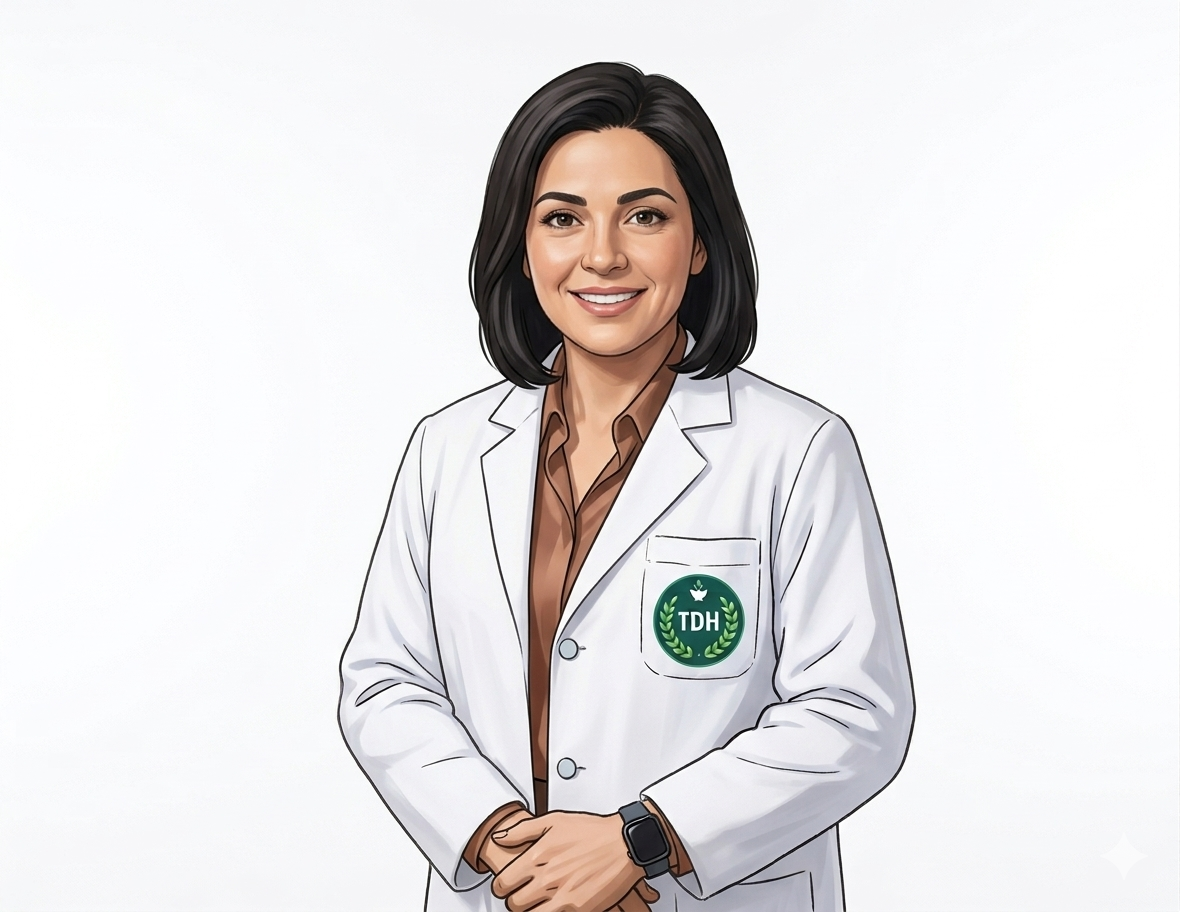
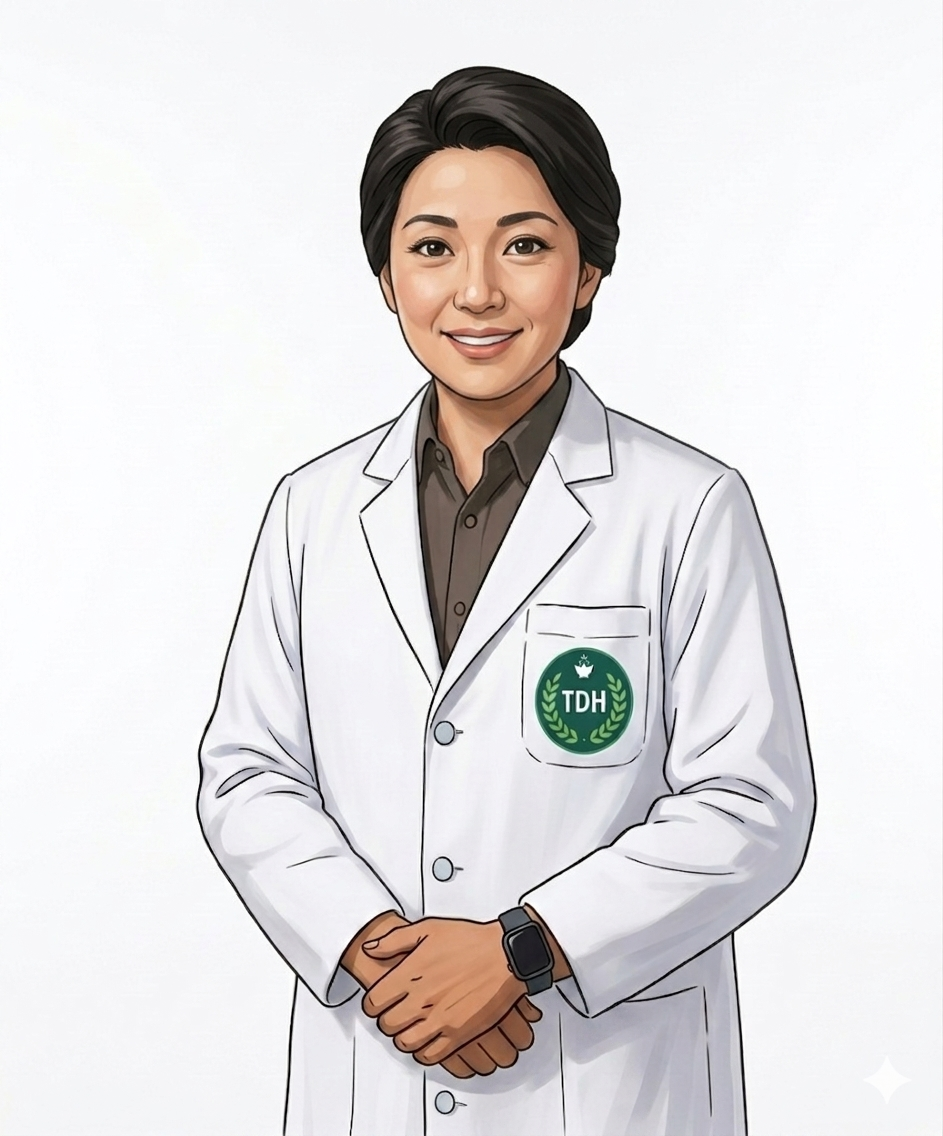
Contacts Done

Changed region(s): [[0.1845, 0.0307, 0.8918, 1.0], [0.2768, 0.9518, 0.3075, 1.0], [0.3075, 0.3991, 0.3383, 0.4298]]

diff --git a/medical-contact.html b/medical-contact.html
@@ -38,13 +38,15 @@
 		<link rel="stylesheet" href="css/theme-shop.css">
 
 		<!-- Demo CSS -->
-		<link rel="stylesheet" href="css/demos/medical.css">
+		<link rel="stylesheet" href="css/demos/demo-medical.css">
 
 		<!-- Skin CSS -->
 		<link id="skinCSS" rel="stylesheet" href="css/skins/skin-medical.css">
 
 		<!-- Theme Custom CSS -->
 		<link rel="stylesheet" href="css/custom.css">
+		<link rel="stylesheet" href="css/custom-contact.css">
+
 
 	</head>
 	<body>
@@ -172,51 +174,61 @@
 
 				<div class="container">
 
-					<div class="row mt-5">
-						<div class="col-lg-4">
-							<div class="feature-box feature-box-style-2">
-								<div class="feature-box-icon pt-0">
-									<i class="icon-location-pin icons"></i>
+					<div class="row mt-5 mb-5">
+						<div class="col-lg-4 mb-4">
+							<div class="contact-feature-card h-100 shadow-sm">
+								<div class="icon-wrapper">
+									<i class="icon-location-pin icons text-color-primary" style="font-size: 1.7rem;"></i>
 								</div>
-								<div class="feature-box-info">
-									<h4 class="mb-2">Address</h4>
-									<p class="text-4">
-										A. Soriano Highway, <br>
-										Brgy. Sahud Ulan Tanza Cavite
-									</p>
+								<h4 class="font-weight-bold text-color-dark mt-2 mb-3">Our Location</h4>
+								<p class="text-4 mb-0" style="line-height: 1.6;">
+									A. Soriano Highway, <br>
+									<strong class="text-color-dark">Brgy. Sahud Ulan</strong><br>
+									Tanza, Cavite
+								</p>
+							</div>
+						</div>
+
+						<div class="col-lg-4 mb-4">
+							<div class="contact-feature-card h-100 shadow-sm">
+								<div class="icon-wrapper">
+									<i class="icon-phone icons text-color-primary" style="font-size: 1.7rem;"></i>
+								</div>
+								<h4 class="font-weight-bold text-color-dark mt-2 mb-3">Phone Numbers</h4>
+								<div class="mb-2">
+									<span class="contact-label">Trunkline</span>
+									<a href="tel:0468889580" class="contact-value">(046) 888 9580</a>
+								</div>
+								<div class="row">
+									<div class="col-6">
+										<span class="contact-label">OPD</span>
+										<a href="tel:09177016393" class="contact-value text-3">0917 701 6393</a>
+									</div>
+									<div class="col-6">
+										<span class="contact-label">HMO</span>
+										<a href="tel:09177054799" class="contact-value text-3">0917 705 4799</a>
+									</div>
+								</div>
+								<div class="row">
+									<div class="col-6">
+										<span class="contact-label">CARDIO</span>
+										<a href="tel:09177016393" class="contact-value text-3">0917 636 6077</a>
+									</div>
 								</div>
 							</div>
 						</div>
-						<div class="col-lg-4">
-							<div class="feature-box feature-box-style-2">
-								<div class="feature-box-icon pt-0">
-									<i class="icon-phone icons"></i>
+
+						<div class="col-lg-4 mb-4">
+							<div class="contact-feature-card h-100 shadow-sm">
+								<div class="icon-wrapper">
+									<i class="icon-envelope icons text-color-primary" style="font-size: 1.7rem;"></i>
 								</div>
-								<div class="feature-box-info">
-									<h4 class="mb-2">Phone</h4>
-									<p class="text-4">
-										<strong>TRUNKLINE:</strong> (046) 888 9580 ... 86<br>
-										<strong>OUT-PATIENT DEPT.:</strong> 0917 701 6393<br>
-										<strong>IM SEC:</strong> 0927 964 4871<br>
-										<strong>HMO DEPT.:</strong> 0917 705 4799<br>
-										<strong>OUT-PATIENT DEPT.:</strong> 0917 636 6077
-									</p>
-								</div>
-							</div>
-						</div>
-						<div class="col-lg-4">
-							<div class="feature-box feature-box-style-2">
-								<div class="feature-box-icon pt-0">
-									<i class="icon-envelope icons"></i>
-								</div>
-								<div class="feature-box-info">
-									<h4 class="mb-2">Email</h4>
-									<p class="text-4">
-										<a href="mailto:tdh.tanzadoctorshospital@yahoo.com" class="text-decoration-none">tanzadoctorshospital@yahoo.com</a><br>
-										<a href="mailto:outpatientdepartment561@gmail.com" class="text-decoration-none">outpatientdepartment561@gmail.com</a>
-										<a href="mailto:tdh.mis@tanzadoctors.com" class="text-decoration-none">tdh.mis@tanzadoctors.com</a><br>]
-									</p>
-								</div>
+								<h4 class="font-weight-bold text-color-dark mt-2 mb-3">Email Support</h4>
+								<span class="contact-label">General Inquiry</span>
+								<a href="mailto:tdh.tanzadoctorshospital@yahoo.com" class="contact-value text-3">tanzadoctorshospital@yahoo.com</a>
+								
+								<span class="contact-label">MIS Department</span>
+								<a href="mailto:tdh.mis@tanzadoctors.com" class="contact-value text-3">tdh.mis@tanzadoctors.com</a>
 							</div>
 						</div>
 					</div>
@@ -241,7 +253,7 @@
 
 							<h4 class="font-weight-semibold mb-4">Send a Message to Us</h4>
 
-							<form class="contact-form-wrapper" action="php/contact-form.php" method="POST">
+							<form id="contactForm" class="contact-form" action="php/contact-form.php" method="POST">
 								<div class="contact-form-success alert alert-success d-none mt-4">
 									<strong>Success!</strong> Your message has been sent to us.
 								</div>
@@ -358,6 +370,8 @@
 
 		<!-- Theme Base, Components and Settings -->
 		<script src="js/theme.js"></script>
+
+		<script src="vendor/jquery.validation/jquery.validate.min.js"></script>
 
 		<!-- Current Page Vendor and Views -->
 		<script src="js/views/view.contact.js"></script>

diff --git a/medical.html b/medical.html
@@ -177,7 +177,7 @@
 								<div class="container position-relative z-index-3 h-100" style="background-color: transparent !important; outline: none !important; border: none !important; box-shadow: none !important;">
 									<div class="row align-items-center h-100">
 										<div class="col pb-4">
-											<h1 class="text-color-light font-weight-extra-bold text-13 line-height-2 mb-2 appear-animation" data-appear-animation="fadeInUpShorter" data-appear-animation-delay="500" data-plugin-options="{'minWindowWidth': 0}">SPECIALISTS</h1>
+											<h1 class="text-color-light font-weight-extra-bold text-13 line-height-2 mb-2 appear-animation" data-appear-animation="fadeInUpShorter" data-appear-animation-delay="500" data-plugin-options="{'minWindowWidth': 0}">TRUSTED PROVIDERS</h1>
 											<h2 class="text-color-light font-weight-extra-bold text-4-5 line-height-2 mb-3 appear-animation" data-appear-animation="fadeInUpShorter" data-appear-animation-delay="750" data-plugin-options="{'minWindowWidth': 0}">3 YEARS CARING ABOUT YOU</h2>
 											<div class="d-inline-block">
 												<p class="text-color-light custom-border-bottom-1 font-weight-light text-4-5 mb-0 appear-animation" data-appear-animation="fadeInUpShorter" data-appear-animation-delay="1000" data-plugin-options="{'minWindowWidth': 0}">We are located in Cavite</p>
@@ -414,7 +414,7 @@
 									<a href="#" data-href="medical-doctors-details - jtiu.html" data-ajax-on-page class="text-decoration-none">
 										<span class="thumb-info thumb-info-no-zoom thumb-info-hide-wrapper-bg">
 											<span class="thumb-info-wrapper m-0">
-												<img src="img/demos/medical/doctors/Trial_Doc_Male.png" class="img-fluid" alt="">
+												<img src="img/demos/medical/doctors/Trial_Doc_Male_Scrubs.png" class="img-fluid" alt="">
 											</span>
 										<span class="thumb-info-caption p-4">
 											<span class="custom-thumb-info-title d-flex align-items-center justify-content-between" style="width: 100%;">
@@ -456,7 +456,7 @@
 									<a href="#" data-href="medical-doctors-details - ilumubos.html" data-ajax-on-page class="text-decoration-none">
 										<span class="thumb-info thumb-info-no-zoom thumb-info-hide-wrapper-bg">
 											<span class="thumb-info-wrapper m-0">
-												<img src="img/demos/medical/doctors/Trial_Doc_Male.png" class="img-fluid" alt="">
+												<img src="img/demos/medical/doctors/Trial_Doc_Female_Scrubs.png" class="img-fluid" alt="">
 											</span>
 										<span class="thumb-info-caption p-4">
 											<span class="custom-thumb-info-title d-flex align-items-center justify-content-between" style="width: 100%;">

diff --git a/css/custom-contact.css b/css/custom-contact.css
@@ -1,0 +1,59 @@
+/* Custom styles using your Poppins font and theme variables */
+    .contact-feature-card {
+        padding: 35px;
+        border-radius: 10px;
+        background: #fff;
+        transition: all 0.3s ease;
+        border: 1px solid #e9e9e9;
+        font-family: 'Poppins', sans-serif;
+    }
+
+    .contact-feature-card:hover {
+        transform: translateY(-5px);
+        box-shadow: 0 10px 30px rgba(0, 0, 0, 0.05);
+        border-color: #006a58; /* Matches Porto Medical Primary Blue */
+    }
+
+    .icon-wrapper {
+        width: 60px;
+        height: 60px;
+        background: #f4f4f4;
+        border-radius: 50%;
+        display: flex;
+        align-items: center;
+        justify-content: center;
+        margin-bottom: 20px;
+        transition: 0.3s;
+    }
+
+    .contact-feature-card:hover .icon-wrapper {
+        background: #006a58;
+    }
+
+    .contact-feature-card:hover .icon-wrapper i {
+        color: #fff !important;
+    }
+
+    /* Matching your theme's text-4 and font weights */
+    .contact-label {
+        font-size: 0.75rem;
+        font-weight: 700;
+        text-transform: uppercase;
+        color: #999;
+        display: block;
+        letter-spacing: -0.5px;
+        margin-top: 10px;
+    }
+
+    .contact-value {
+        font-size: 1.05rem; /* Equivalent to text-4 */
+        font-weight: 500;
+        color: #444;
+        text-decoration: none;
+        transition: color 0.2s;
+    }
+
+    .contact-value:hover {
+        color: #006a58;
+        text-decoration: none;
+    }

diff --git a/medical-doctors.html b/medical-doctors.html
@@ -259,7 +259,7 @@
 												<a href="#" data-href="medical-doctors-detail.html" data-ajax-on-page class="text-decoration-none">
 													<span class="thumb-info thumb-info-no-zoom thumb-info-hide-wrapper-bg">
 														<span class="thumb-info-wrapper m-0">
-															<img src="img/demos/medical/doctors/doctor-2.jpg" class="img-fluid" alt="">
+															<img src="img/demos/medical/doctors/Trial_Doc_Male.png" class="img-fluid" alt="">
 														</span>
 														<span class="thumb-info-caption p-4">
 															<span class="custom-thumb-info-title">
@@ -278,7 +278,7 @@
 												<a href="#" data-href="medical-doctors-details - pdavidson.html" data-ajax-on-page class="text-decoration-none">
 													<span class="thumb-info thumb-info-no-zoom thumb-info-hide-wrapper-bg">
 														<span class="thumb-info-wrapper m-0">
-															<img src="img/demos/medical/doctors/doctor-5.jpg" class="img-fluid" alt="">
+															<img src="img/demos/medical/doctors/Trial_Doc_Female_Scrubs.png" class="img-fluid" alt="">
 														</span>
 														<span class="thumb-info-caption p-4">
 															<span class="custom-thumb-info-title d-flex align-items-center justify-content-between" style="width: 100%;">

diff --git a/js/custom.js b/js/custom.js
@@ -1,0 +1,29 @@
+$(document).ready(function() {
+    $('#contactForm').on('submit', function(e) {
+        e.preventDefault(); // Stop the page from reloading
+
+        var $form = $(this);
+        var $submitButton = $form.find('input[type="submit"]');
+        $submitButton.button('loading');
+
+        $.ajax({
+            type: 'POST',
+            url: $form.attr('action'),
+            data: $form.serialize(),
+            dataType: 'json',
+            success: function(data) {
+                if (data.response == 'success') {
+                    $('.contact-form-success').removeClass('d-none');
+                    $('.contact-form-error').addClass('d-none');
+                    $form.find('.form-control').val(''); // Clear the form
+                } else {
+                    $('.contact-form-error').removeClass('d-none');
+                    $('.contact-form-success').addClass('d-none');
+                }
+            },
+            complete: function() {
+                $submitButton.button('reset');
+            }
+        });
+    });
+});

diff --git a/php/contact-form.php b/php/contact-form.php
@@ -17,7 +17,7 @@ require 'php-mailer/src/Exception.php';
 $email = 'aaronbalolong49@gmail.com';
 
 // If the e-mail is not working, change the debug option to 2 | $debug = 2;
-$debug = 2;
+$debug = 0;
 
 // If contact form don't has the subject input change the value of subject here
 $subject = ( isset($_POST['subject']) ) ? $_POST['subject'] : 'Define subject in php/contact-form.php line 29';
@@ -51,18 +51,18 @@ try {
 	// Step 2 (Optional) - If you don't receive the email, try to configure the parameters below:
 
 	$mail->IsSMTP();                                         // Set mailer to use SMTP
-	$mail->Host = 'smtp.gmail.com';				       // Specify main and backup server
+	$mail->Host = 'tanzadoctors.com';				       // Specify main and backup server
 	$mail->SMTPAuth = true;                                  // Enable SMTP authentication
-	$mail->Username = 'aaronbalolong49@gmail.com';                    // SMTP username
-	$mail->Password = 'ybti jlth zezy rfox';                              // SMTP password
-	$mail->SMTPSecure = 'tls';                               // Enable encryption, 'ssl' also accepted
-	$mail->Port = 587;   								       // TCP port to connect to
+	$mail->Username = 'trialmis@tanzadoctors.com';                    // SMTP username
+	$mail->Password = 'pRR@G(g^NI+@dYy8';                              // SMTP password
+	$mail->SMTPSecure = 'ssl';                               // Enable encryption, 'ssl' also accepted
+	$mail->Port = 465;   								       // TCP port to connect to
 
 	$mail->AddAddress($email);	 						       // Add another recipient
 
 	// From - Name
 	$fromName = ( isset($_POST['name']) ) ? $_POST['name'] : 'Website User';
-	$mail->SetFrom('aaronbalolong49@gmail.com', $fromName);
+	$mail->SetFrom('trialmis@tanzadoctors.com', $fromName);
 
 	// Reply To
 	if( isset($_POST['email']) && !empty($_POST['email']) ) {
